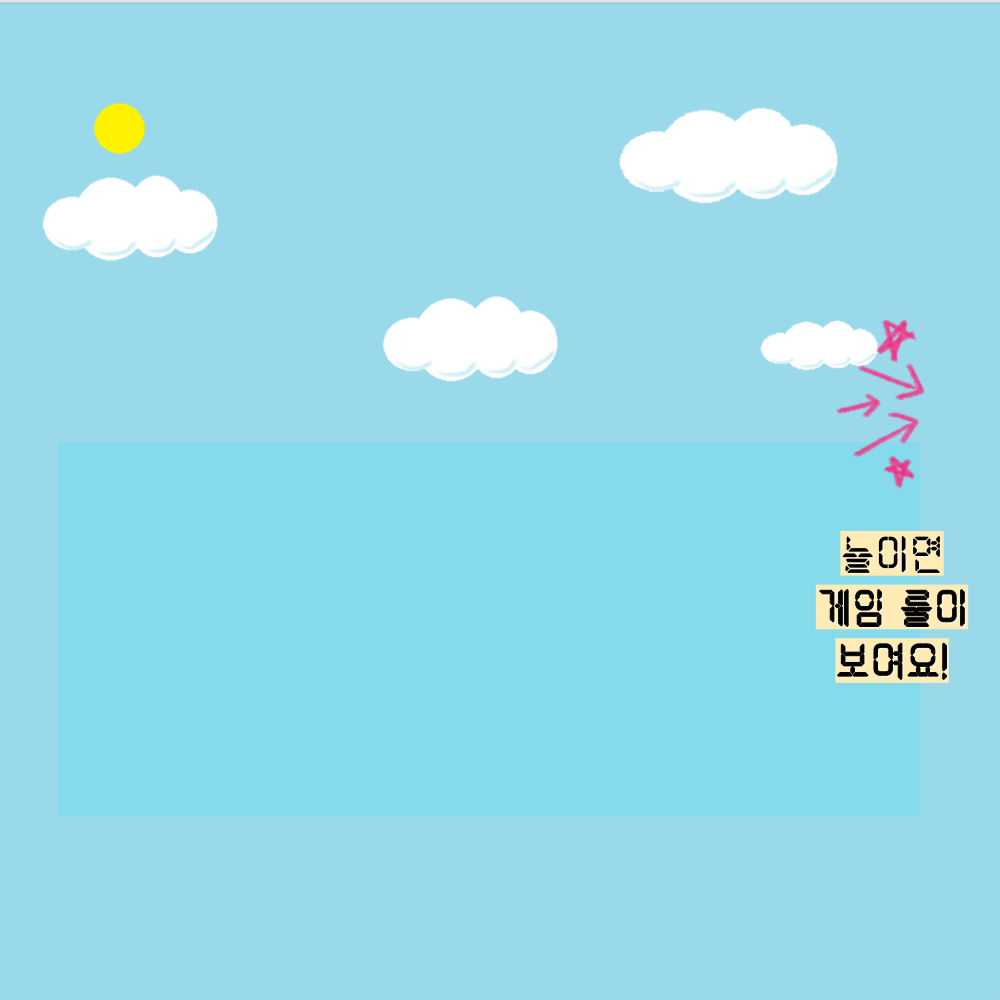
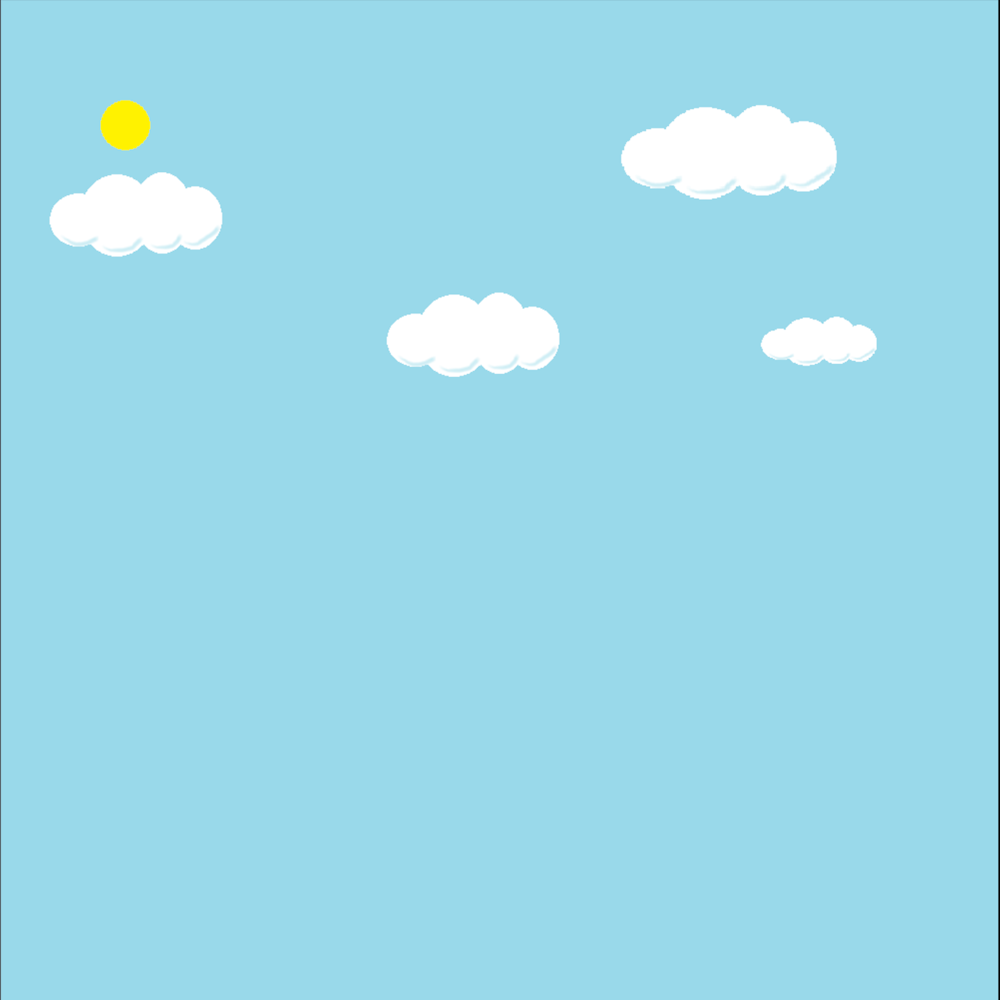
[22.12.13] Update: 메인화면 변경

diff --git a/Platformer-master/main.py b/Platformer-master/main.py
@@ -48,7 +48,7 @@ def reset_hard_level(hard_level):
     lava_group.empty()
     exit_group.empty()
 
-    #leve editor, world 로드하기
+    #load in level data and create world
     if path.exists(f'level_data/hard_level{hard_level}_data'):  # 파일 또는 폴더 존재 여부 확인
         pickle_in = open(f'level_data/hard_level{hard_level}_data', 'rb')
         hard_world_data = pickle.load(pickle_in)
@@ -80,11 +80,11 @@ class Player():
             if key[pygame.K_SPACE] == False:
                 self.jumped = False
             if key[pygame.K_LEFT]:
-                dx -= 7
+                dx -= 5
                 self.counter += 1 
                 self.direction = -1
             if key[pygame.K_RIGHT]:
-                dx += 7
+                dx += 5
                 self.counter += 1
                 self.direction = 1
             if key[pygame.K_LEFT] == False and key[pygame.K_RIGHT] == False:
@@ -96,7 +96,7 @@ class Player():
                     self.image = self.images_left[self.index]
 
 
-            #아코 움직임
+            #handle animation
             if self.counter > walk_cooldown:
                 self.counter = 0	
                 self.index += 1
@@ -107,19 +107,19 @@ class Player():
                 if self.direction == -1:
                     self.image = self.images_left[self.index]
 
-            #점프할 때 내려오는 속도
+            #add gravity
             self.vel_y += 1
             if self.vel_y > 10:
                 self.vel_y = 10
             dy += self.vel_y
 
-            #플랫포머와 충돌시
+            #check for collision
             self.in_air = True
             for tile in world.tile_list:
-                #x좌표에서 플랫포머와 충돌할 시
+                #check for collision in x direction
                 if tile[1].colliderect(self.rect.x + dx, self.rect.y, self.width, self.height):
                     dx = 0
-                #y좌표에서 플랫포머와 충돌할 시
+                #check for collision in y direction
                 if tile[1].colliderect(self.rect.x, self.rect.y + dy, self.width, self.height):
                     #check if below the ground i.e. jumping
                     if self.vel_y < 0:
@@ -237,6 +237,7 @@ while run:
     screen.blit(background_img, (0, 0))
         
     if main_menu == True:
+        screen.blit(background_main_img, (0, 0))
         if exit_button.draw(): # exit 버튼 누르면 while 반복 루프에서 벗어남
             run = False     
         if start_button.draw(): # start 버튼 누르면 
@@ -264,7 +265,7 @@ while run:
             total_time = hard_timer #초안 그래도 10분, 600초로 설정(임시)
             flag = False
    
-    elif main_menu == "skin":  #3 start 버튼 눌렀을때 페이지 
+    elif main_menu == "skin":  #3 skin 버튼 눌렀을때 페이지 
         screen.blit(background_img, background_coordinate)
 
         if back_img_button.draw():  # 뒤로가기 버튼 기능 구현 -> 메인 메뉴 페이지로
@@ -334,12 +335,12 @@ while run:
 
     elif main_menu == "easy" and flag:
         world.draw()
+        
         if playing_home_button.draw():
             main_menu = True
             level = 1
    
         if game_over == 0:
-            
             elapsed_time = (pygame.time.get_ticks() - start_ticks) / 1000 # 타이머 시간을 1000으로 나누어 초단위로 표시 (default: ms 단위)
             game_font = pygame.font.Font('Puradak Gentle Gothic OTF.otf', game_font_size)
 

diff --git a/Platformer-master/game_image_sound.py b/Platformer-master/game_image_sound.py
@@ -27,6 +27,7 @@ def draw_text(text, font, text_col, x, y):
 # 게임에서 이미지 사용하기 위해 이미지 불러와서 변수에 저장
 # 여기저기서 사용해야하므로 전역변수에 저장
 background_full_img = pygame.image.load('img/background_full.png')
+background_main_img = pygame.image.load('img/background_main.png')
 background_img = pygame.image.load('img/background.png') #배경화면 이미지
 start_img = pygame.image.load('img/start_bt.png')#메인화면 버튼 이미지
 skin_img = pygame.image.load('img/skin_bt.png')
